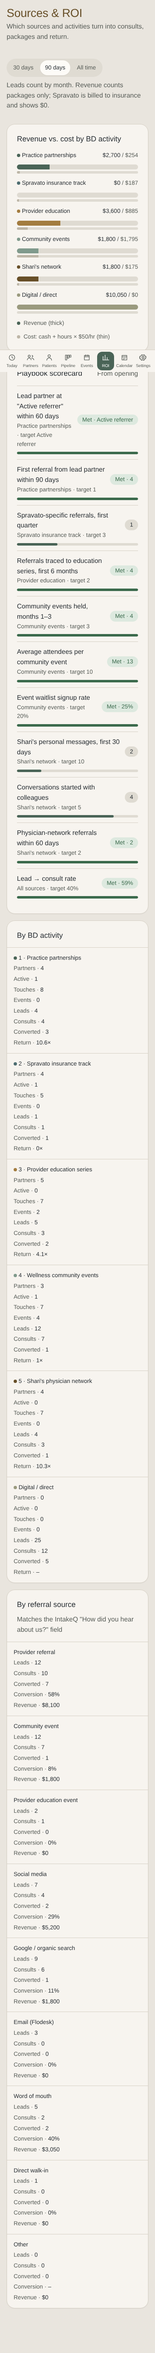
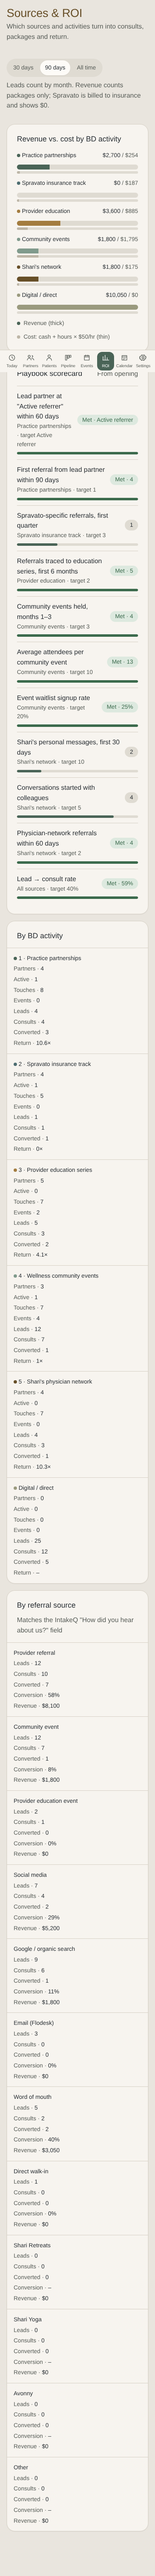
Add referral sources: Shari Retreats, Shari Yoga, Avonny
Added to the dashboard source list, the IntakeQ import's auto-matching
(also matches 'Sheri' and 'Avonney' spellings) and the Sheets tracker.
Live test now covers the new sources.

Claude-Session: https://claude.ai/code/session_016Broc13AmVu7DcJiKXFPp3

Changed region(s): [[0.0587, 0.0, 0.968, 0.9949]]

diff --git a/dashboard/app.js b/dashboard/app.js
@@ -34,7 +34,7 @@
     { id: 'D', name: 'Digital / direct', long: 'Digital / direct', color: 'var(--chart-6)' },
   ];
   const act = (id) => ACTIVITIES.find((a) => a.id === id) || ACTIVITIES[5];
-  const SOURCES = ['Provider referral', 'Community event', 'Provider education event', 'Social media', 'Google / organic search', 'Email (Flodesk)', 'Word of mouth', 'Direct walk-in', 'Other'];
+  const SOURCES = ['Provider referral', 'Community event', 'Provider education event', 'Social media', 'Google / organic search', 'Email (Flodesk)', 'Word of mouth', 'Direct walk-in', 'Shari Retreats', 'Shari Yoga', 'Avonny', 'Other'];
   const CHANNELS = ['Discovery form (website)', 'Phone call', 'Email', 'Provider referral form', 'At an event', 'Walk-in'];
   const EVENT_TYPES = ['Lunch-and-learn', 'Webinar', 'Open house', 'Q&A', 'Tea', 'Integration circle', 'Community talk'];
   const TYPES = ['Clinical referrer', 'Hospital colleague', 'Community venue'];
@@ -483,7 +483,7 @@
   const norm = (s) => String(s || '').toLowerCase().replace(/[^a-z0-9]+/g, ' ').trim();
   const matchList = (val, list, fallback) => { const v = norm(val); if (!v) return fallback; return list.find((x) => norm(x) === v) || list.find((x) => v.includes(norm(x)) || norm(x).includes(v)) || fallback; };
   const matchSource = (val) => { const v = norm(val); if (!v) return 'Other';
-    const rules = [[/refer|doctor|physician|provider|therapist/, 'Provider referral'], [/lunch|webinar|education/, 'Provider education event'], [/event|talk|tea|open house|circle|yoga|class/, 'Community event'], [/insta|facebook|social|tiktok|linkedin/, 'Social media'], [/google|search|online|web/, 'Google / organic search'], [/email|newsletter|flodesk/, 'Email (Flodesk)'], [/friend|family|word|mouth/, 'Word of mouth'], [/walk/, 'Direct walk-in']];
+    const rules = [[/retreat/, 'Shari Retreats'], [/\b(shari|sheri)\b.*yoga|yoga.*\b(shari|sheri)\b/, 'Shari Yoga'], [/\bavonn?e?y\b/, 'Avonny'], [/refer|doctor|physician|provider|therapist/, 'Provider referral'], [/lunch|webinar|education/, 'Provider education event'], [/event|talk|tea|open house|circle|yoga|class/, 'Community event'], [/insta|facebook|social|tiktok|linkedin/, 'Social media'], [/google|search|online|web/, 'Google / organic search'], [/email|newsletter|flodesk/, 'Email (Flodesk)'], [/friend|family|word|mouth/, 'Word of mouth'], [/walk/, 'Direct walk-in']];
     return matchList(val, SOURCES, null) || (rules.find(([re]) => re.test(v)) || [null, 'Other'])[1]; };
   const matchCredit = (val) => { const v = norm(val); if (!v || v.length < 3) return '';
     const hit = DATA.partners.find((p) => [p.contact, p.org].some((x) => norm(x) && (v.includes(norm(x)) || norm(x).includes(v)))) || DATA.events.find((e) => norm(e.name) && (v.includes(norm(e.name)) || norm(e.name).includes(v)));

diff --git a/scripts/live_test.py b/scripts/live_test.py
@@ -12,6 +12,8 @@ Jane Doe,11/02/2026,Instagram,,11/05/2026,4-session series
 John Roe,11/03/2026,My doctor referred me,Dr. Test Partner,,
 Ann Poe,11/09/2026,Google,,,
 Bob Loe,10/20/2026,Friend,,10/25/2026,
+Dee Moe,11/10/2026,Sheri Yoga,,,
+Ed Noe,11/11/2026,Avonney,,,
 """
 
 def serve():
@@ -71,16 +73,17 @@ async def main():
         await pg.fill("[data-import-text]", CSV); await pg.click("text=Read the file"); await pg.wait_for_timeout(100)
         await pg.select_option("[name=via]", "Discovery form (website)"); await pg.click("button:has-text(\"Preview the totals\")"); await pg.wait_for_timeout(100)
         preview = await pg.inner_text("[data-import-preview]")
-        ok("preview shows 4 patients", "4 patients" in preview)
+        ok("preview shows 6 patients", "6 patients" in preview)
         await pg.screenshot(path=os.path.join(ROOT, "docs/screenshots/live-import-1280.png"))
         await pg.click("[data-act=import-save]"); await pg.wait_for_timeout(300)
         rows = await pg.evaluate("window.__db.lead_counts")
         ok("only counts saved (no names)", all(set(r.keys()) <= {"id", "month", "via", "source", "credit_id", "leads", "consults", "converted", "revenue"} for r in rows) and "Jane" not in json.dumps(rows))
-        ok("totals correct", sum(r["leads"] for r in rows) == 4 and sum(r["converted"] for r in rows) == 1 and any(r["credit_id"] == "P-001" for r in rows))
+        ok("totals correct", sum(r["leads"] for r in rows) == 6 and sum(r["converted"] for r in rows) == 1 and any(r["credit_id"] == "P-001" for r in rows))
+        ok("new sources matched (Sheri Yoga -> Shari Yoga, Avonney -> Avonny)", {r["source"] for r in rows} >= {"Shari Yoga", "Avonny"})
         ok("discovery KPI shows this month's leads", "Discovery form, this month" in await pg.inner_text("[data-view]"))
         # 6. Re-import replaces (no double count)
         await pg.click("text=Import IntakeQ export"); await pg.fill("[data-import-text]", CSV); await pg.click("text=Read the file"); await pg.click("button:has-text(\"Preview the totals\")"); await pg.click("[data-act=import-save]"); await pg.wait_for_timeout(300)
-        ok("re-import does not double count", await pg.evaluate("window.__db.lead_counts.reduce((s,r)=>s+r.leads,0)") == 4)
+        ok("re-import does not double count", await pg.evaluate("window.__db.lead_counts.reduce((s,r)=>s+r.leads,0)") == 6)
         # 7. Settings + team
         await pg.goto(base + "#setup"); await pg.wait_for_timeout(200)
         ok("shows Live connection", await pg.locator(".chip.success >> text=Live").count() == 1)

diff --git a/tracker/build_tracker.py b/tracker/build_tracker.py
@@ -28,7 +28,8 @@ wb = Workbook()
 # ---------------- Lists ----------------
 lists = {
     "Source category": ["Provider referral", "Community event", "Provider education event", "Social media",
-                        "Google / organic search", "Email (Flodesk)", "Word of mouth", "Waitlist (other)", "Direct walk-in"],
+                        "Google / organic search", "Email (Flodesk)", "Word of mouth", "Waitlist (other)", "Direct walk-in",
+                        "Shari Retreats", "Shari Yoga", "Avonny"],
     "BD activity": ["1. Practice partnerships", "2. Spravato insurance track", "3. Provider education series",
                     "4. Wellness community events", "5. Shari's physician network", "Digital / direct"],
     "Partner type": ["Clinical referrer", "Hospital colleague", "Community venue", "Marketing partner"],
